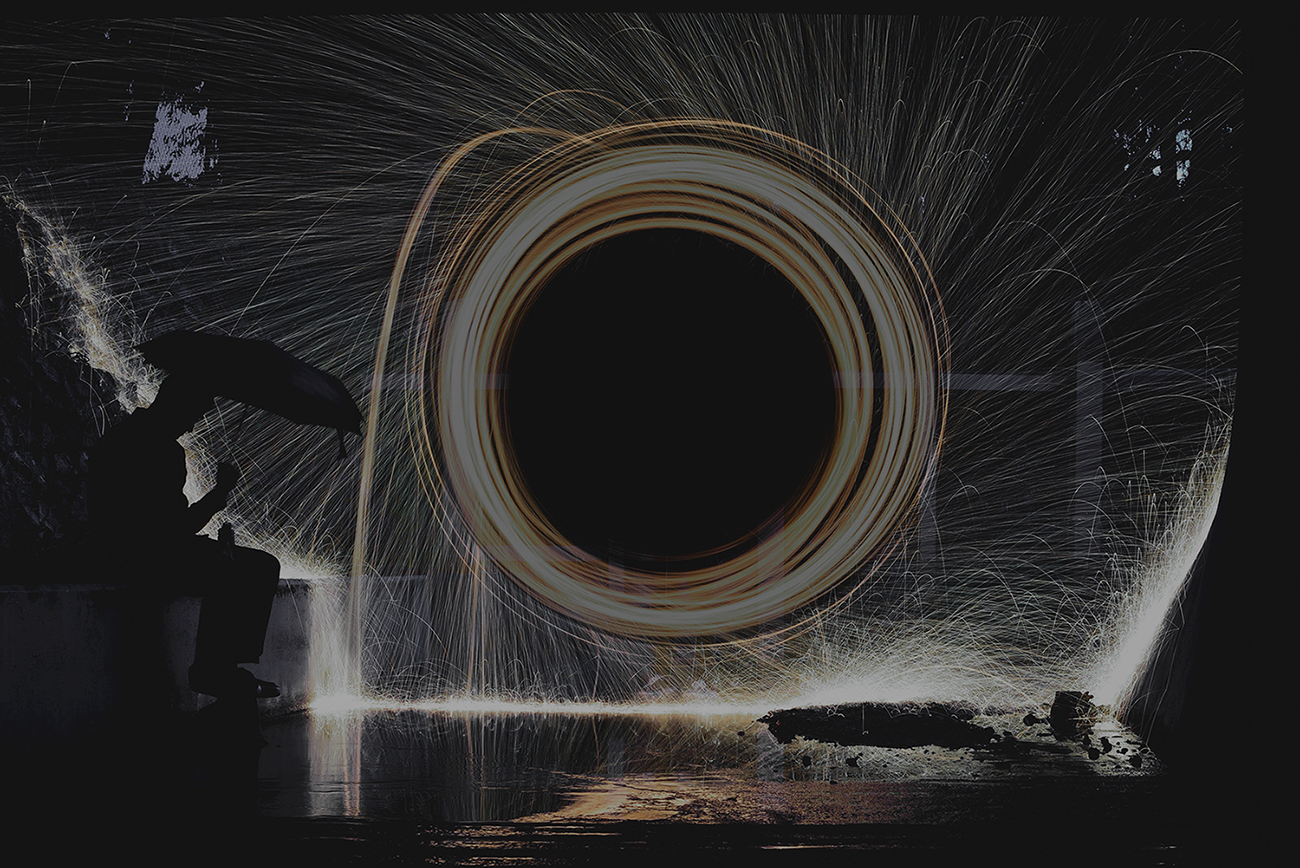
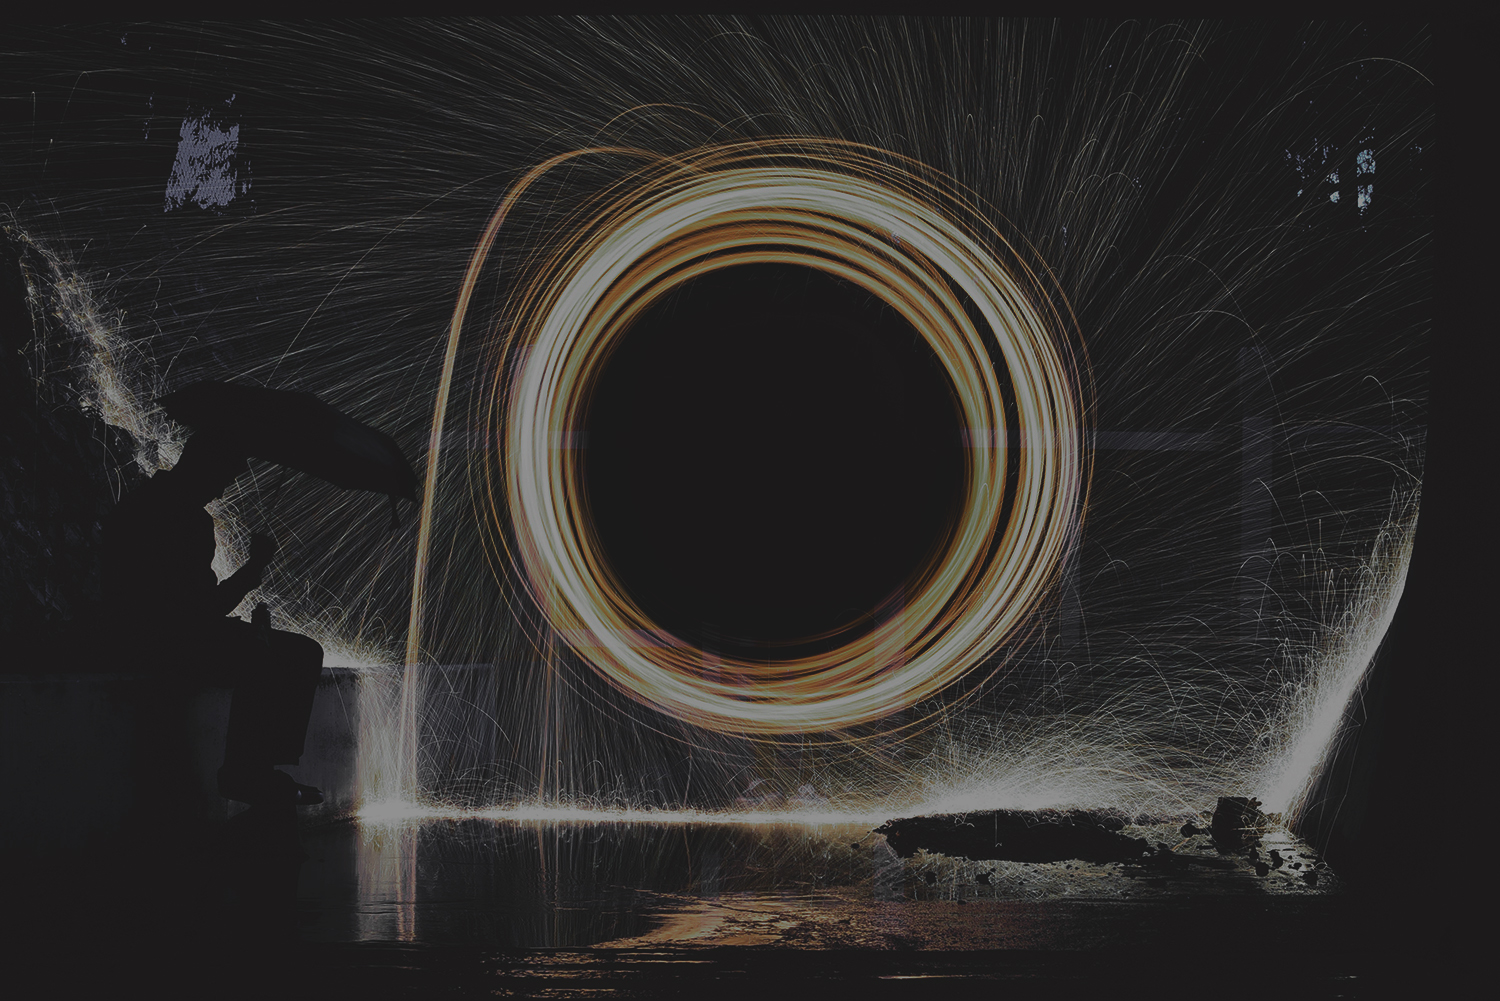
cleaned image stuff

diff --git a/css/style.css b/css/style.css
@@ -64,13 +64,13 @@ ul{
 
 .background-img{
   position: absolute;
-  background: url(../img/horizon.jpg) no-repeat 0% 100%;
+  background: url(../img/horizon2.jpg) no-repeat 150% 100%;
   background-size: cover;
   left: -5%;
   right: -5%;
   top: -5%;
-  width: 140%;
-  height: 140%;
+  width: 110%;
+  height: 110%;
 }
 
 .text-wrapper{
